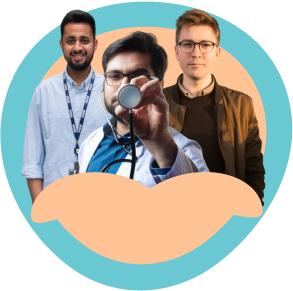
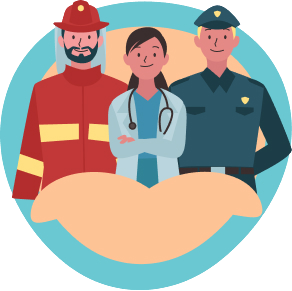
[Update] implement new illustration.

diff --git a/lib/scenes/home/home_scene.dart b/lib/scenes/home/home_scene.dart
@@ -2,6 +2,8 @@ import 'dart:developer';
 
 import 'package:flutter/material.dart';
 import 'package:fluttertoast/fluttertoast.dart';
+import 'package:halokak_app/custom/custom_text_widget.dart';
+import 'package:halokak_app/custom/space.dart';
 import 'package:halokak_app/custom/toast.dart';
 import 'package:halokak_app/data/local/assets_storage.dart';
 import 'package:halokak_app/data/local/color_storage.dart';
@@ -139,85 +141,32 @@ class _HomeScene extends State<HomeScene> {
             margin: const EdgeInsets.only(left: 80.0, right: 80.0, top: 70.0),
             child: Row(
               children: [
-                Expanded(child: Column(
-                  mainAxisAlignment: MainAxisAlignment.start,
-                  children: [
-                    Row(
-                      children: const [
-                        Text('Mentoring', style: TextStyle(fontSize: 40, color: ColorStorage.blue, fontWeight: FontWeight.bold)),
-                        SizedBox(width: 4,),
-                        Text('Jadi Lebih', style: TextStyle(fontSize: 40, color: Colors.black, fontWeight: FontWeight.bold)),
-                      ],
-                    ),
-                    Row(
-                      children: const [
-                        Text('Mudah', style: TextStyle(fontSize: 40, color: ColorStorage.orange, fontWeight: FontWeight.bold)),
-                        SizedBox(width: 4,),
-                        Text('dan', style: TextStyle(fontSize: 40, color: Colors.black, fontWeight: FontWeight.bold)),
-                        SizedBox(width: 4,),
-                        Text('Cepat', style: TextStyle(fontSize: 40, color: ColorStorage.red, fontWeight: FontWeight.bold)),
-                      ],
-                    ),
-                    const SizedBox(height: 30,),
-                    const Text('Hubungi mentor, Konsul terkait pekerjaan, Update seputar pekerjaan semua hanya dengan Halo Kak', style: TextStyle(fontSize: 20, color: ColorStorage.gray, fontWeight: FontWeight.w400)),
-                    const SizedBox(height: 40,),
-                    Row(
+                const Expanded(
+                    child: Column(
+                      mainAxisAlignment: MainAxisAlignment.start,
                       children: [
-                        InkWell(
-                          onTap: () {
-                            showToast(context, fToast, "Segera Hadir");
-                          },
-                          child: Container(
-                            width: 170,
-                            height: 98,
-                            alignment: Alignment.center,
-                            decoration: BoxDecoration(color: Colors.white, borderRadius: BorderRadius.circular(10), border: Border.all(color: ColorStorage.blue, width: 1.0)),
-                            child: const Text('', style: TextStyle(fontSize: 20, color: ColorStorage.blue, fontWeight: FontWeight.w500)),
-                          ),
+                        Row(
+                          children: [
+                            CustomText(value: 'Mentoring', fontSize: 40, color: ColorStorage.blue, fontWeight: FontWeight.bold,),
+                            Space.w4,
+                            CustomText(value: 'Jadi Lebih', fontSize: 40, color: Colors.black, fontWeight: FontWeight.bold,),
+                          ],
                         ),
-                        const SizedBox(width: 20,),
-                        InkWell(
-                          onTap: () {
-                            showToast(context, fToast, "Segera Hadir");
-                          },
-                          child: Container(
-                            width: 170,
-                            height: 98,
-                            alignment: Alignment.center,
-                            decoration: BoxDecoration(color: Colors.white, borderRadius: BorderRadius.circular(10), border: Border.all(color: ColorStorage.blue, width: 1.0)),
-                            child: const Text('', style: TextStyle(fontSize: 20, color: ColorStorage.blue, fontWeight: FontWeight.w500)),
-                          ),
+                        Row(
+                          children: [
+                            CustomText(value: 'Mudah', fontSize: 40, color: ColorStorage.orange, fontWeight: FontWeight.bold,),
+                            Space.w4,
+                            CustomText(value: 'dan', fontSize: 40, color: Colors.black, fontWeight: FontWeight.bold,),
+                            Space.w4,
+                            CustomText(value: 'Cepat', fontSize: 40, color: ColorStorage.red, fontWeight: FontWeight.bold,),
+                          ],
                         ),
-                        const SizedBox(width: 20,),
-                        InkWell(
-                          onTap: () {
-                            showToast(context, fToast, "Segera Hadir");
-                          },
-                          child: Container(
-                            width: 170,
-                            height: 98,
-                            alignment: Alignment.center,
-                            decoration: BoxDecoration(color: Colors.white, borderRadius: BorderRadius.circular(10), border: Border.all(color: ColorStorage.blue, width: 1.0)),
-                            child: const Text('', style: TextStyle(fontSize: 20, color: ColorStorage.blue, fontWeight: FontWeight.w500)),
-                          ),
-                        ),
-                        const SizedBox(width: 20,),
-                        InkWell(
-                          onTap: () {
-                            showToast(context, fToast, "Segera Hadir");
-                          },
-                          child: Container(
-                            width: 170,
-                            height: 98,
-                            alignment: Alignment.center,
-                            decoration: BoxDecoration(color: Colors.white, borderRadius: BorderRadius.circular(10), border: Border.all(color: ColorStorage.blue, width: 1.0)),
-                            child: const Text('', style: TextStyle(fontSize: 20, color: ColorStorage.blue, fontWeight: FontWeight.w500)),
-                          ),
-                        ),
+                        Space.h32,
+                        CustomText(value: TextStorage.captionHeaderHome, fontSize: 20, color: ColorStorage.gray, fontWeight: FontWeight.w400, lines: 3,),
+                        Space.h32
                       ],
                     )
-                  ],
-                )),
+                ),
                 Container(
                   margin: const EdgeInsets.only(top: 10.0, bottom: 10),
                   child: ClipRRect(

diff --git a/lib/data/local/text_storage.dart b/lib/data/local/text_storage.dart
@@ -29,6 +29,7 @@ class TextStorage {
 
   static const captionExitApp = "Yakin keluar Aplikasi?";
   static const captionSure = "Apakah Anda yakin?";
+  static const captionHeaderHome = "Hubungi mentor, Konsul terkait pekerjaan, Update seputar pekerjaan semua hanya dengan Halo Kak";
 
   static const errorSystem= "Maaf terjadi kesalahan sistem, silakan coba lagi";
   static const errorConnectionTimeout = "Maaf, tidak dapat memuat data karena koneksi internet tidak tersedia.";
